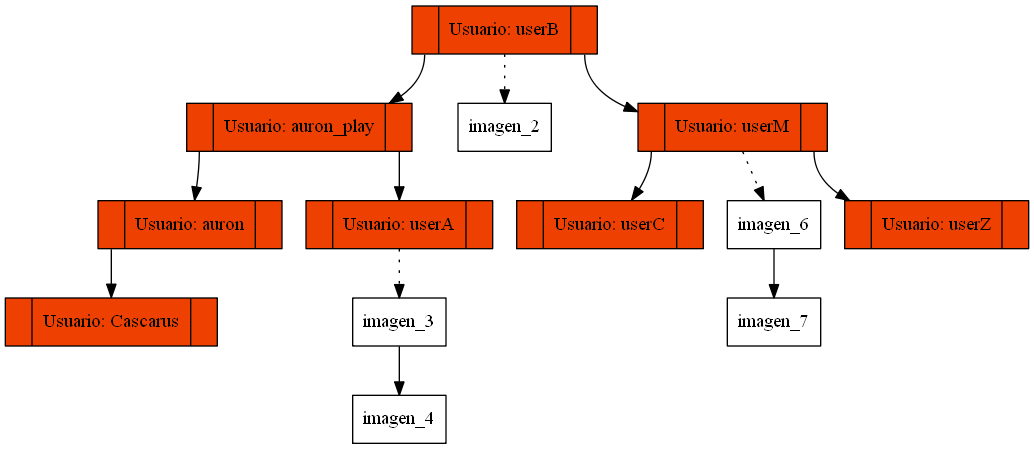
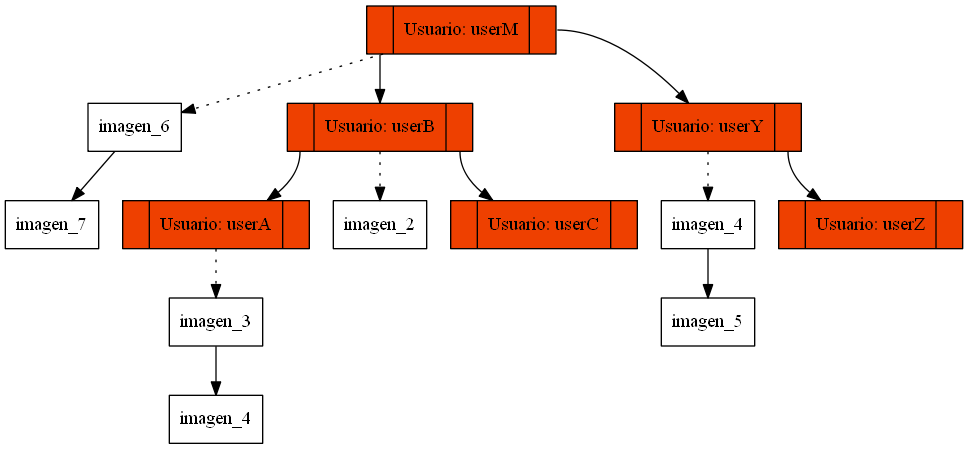
Eliminaion de imagenes en usuarios y en la doble

diff --git a/[EDD]Proyecto1_201603127/main.cpp b/[EDD]Proyecto1_201603127/main.cpp
@@ -73,6 +73,11 @@ int main() {
 			mUsuarios();
 			break;
 
+		case 4:
+			system("cls");
+			mImagenes();
+			break;
+
 		case 5:
 			cout << "Finalizando.";
 			for (int a = 0; a < 10; a++) {
@@ -437,13 +442,14 @@ void mUsuarios() {
 
 void mImagenes() {
 	int opcion = 0;
-	string palabra;
+	string linea, id_img;
+	string imagenes_usurio = "";
 
 	while (opcion != 4) {
 		system("cls");
 		cout << "-----------------MENU IMAGENES-----------------" << endl;
-		cout << "|   1. AGREGAR USUARIO                        |" << endl;
-		cout << "|   2. ELIMINAR USUARIO                       |" << endl;
+		cout << "|   1. AGREGAR IMAGEN                         |" << endl;
+		cout << "|   2. ELIMINAR IMAGEN                       |" << endl;
 		cout << "|   3. MODIFICAR USUARIO                      |" << endl;
 		cout << "|   4. SALIR                                  |" << endl;
 		cout << "-----------------------------------------------" << endl;
@@ -453,7 +459,7 @@ void mImagenes() {
 		switch (opcion) {
 		case 1:
 			system("cls");
-			cout << "Ingrese el id del nuevo usuario>>";
+			/*cout << "Ingrese el id del nuevo usuario>>";
 			cin >> palabra;
 			if (!Usuarios.existe(palabra)) {
 				Usuarios.agregar(palabra);
@@ -461,21 +467,55 @@ void mImagenes() {
 			}
 			else {
 				cout << "El usuario " << palabra << " ya existe, elija otro ID" << endl;
-			}
+			}*/
 			system("pause");
 			break;
 
 		case 2:
+			int no_imagen, no_capas;
+			Nodo_Arbol *nodAVL;
 			system("cls");
-			cout << "Ingrese el id del usuario que desea eliminar>>";
-			cin >> palabra;
-			if (Usuarios.existe(palabra)) {
-				Usuarios.my_delete(palabra);
-				cout << "El usuario " << palabra << "fue agregado exitosamente!" << endl;
+			cout << "Ingrese el id del usuario que al que desea ingresar>>";
+			cin >> id_img;
+			nodAVL = Usuarios.buscarNodo(id_img);
+			if (nodAVL != NULL) {
+				if (nodAVL->primero != NULL) {
+					Nodo_c *aux_lista = nodAVL->primero;
+					Lista_Doble_Circular lista_d_aux = new Lista_Doble_Circular(true);
+					lista_d_aux.primero = nodAVL->primero;
+					lista_d_aux.ultimo = nodAVL->ultimo;
+
+					do {
+						imagenes_usurio += cadena(aux_lista->id) + " ";
+						aux_lista = aux_lista->Siguiente;
+					} while (aux_lista != nodAVL->primero);
+
+					cout << "Las imagenes que contiene el usuario " << linea << "son: " << imagenes_usurio << endl;
+					cout << "Seleccione la imagen que desea eliminar: ";
+					cin >> linea;
+
+					if (esNumero(linea)) {
+						no_capas = atoi(linea.c_str());
+						Nodo_c *IMG = lista_d_aux.buscarNodo(no_capas);
+						if (IMG != NULL) {
+							lista_d_aux.eliminar(no_capas);
+							Imagenes.eliminar(no_capas);
+							Usuarios.update(id_img, lista_d_aux);
+						}
+					}
+					else {
+						cout << "Debe ingresar solamente numeros positivos" << endl;
+						Sleep(1000);
+					}
+				}
+				else {
+					cout << "El usuario no posee ninguna imagen" << endl;
+					Sleep(1000);
+				}
 			}
-			else {
-				cout << "El usuario " << palabra << " ya existe, elija otro ID" << endl;
-			}
+			imagenes_usurio = "";
+			Usuarios.graficar();
+			Imagenes.graf();
 			system("pause");
 			break;
 
@@ -646,7 +686,7 @@ void splitear_Usuarios(string str) {
 				}
 			}
 
-			Usuarios.update(usuario, ImagenesUsuario.primero);
+			Usuarios.update(usuario, ImagenesUsuario);
 			palabra = "";
 		}
 		else

diff --git a/[EDD]Proyecto1_201603127/AVL.cpp b/[EDD]Proyecto1_201603127/AVL.cpp
@@ -195,15 +195,19 @@ void AVL::my_delete(string nombre) {
 	raiz = eliminar(raiz, data);
 }
 
-void AVL::update(string nombre, Nodo_c *actual) {
-
-	actualizar(raiz, nombre, actual);
+void AVL::update(string nombre, Lista_Doble_Circular actual) {
+	string data = nombre;
+	std::transform(data.begin(), data.end(), data.begin(), ::tolower);
+	actualizar(raiz, data, actual);
 }
 
-void AVL::actualizar(Nodo_Arbol *current, string nick, Nodo_c *actual) {
+void AVL::actualizar(Nodo_Arbol *current, string nick, Lista_Doble_Circular actual) {
 	if (current != NULL) {
-		if (current->nick == nick) {
-			current->primero = actual;
+		string data = current->nick;
+		std::transform(data.begin(), data.end(), data.begin(), ::tolower);
+		if (data == nick) {
+			current->primero = actual.primero;
+			current->ultimo = actual.ultimo;
 		}
 		else {
 			actualizar(current->izquierda, nick, actual);

diff --git a/[EDD]Proyecto1_201603127/AVL.h b/[EDD]Proyecto1_201603127/AVL.h
@@ -63,8 +63,10 @@ public:
 	Nodo_Arbol *mini(Nodo_Arbol *nodo);
 	Nodo_Arbol *eliminar(Nodo_Arbol *raiz, string usuario);
 	void my_delete(string usuario);
-	void AVL::update(string nombre, Nodo_c *actual);
-	void actualizar(Nodo_Arbol *current, string nick, Nodo_c *actual);
+	//void AVL::update(string nombre, Nodo_c *actual);
+	void AVL::update(string nombre, Lista_Doble_Circular actual);
+	//void actualizar(Nodo_Arbol *current, string nick, Nodo_c *actual);
+	void actualizar(Nodo_Arbol *current, string nick, Lista_Doble_Circular actual);
 	Nodo_Arbol *buscarNodo(string usuario);
 	Nodo_Arbol *buscarNod(Nodo_Arbol *raiz, string usuario);
 	void graficar();
